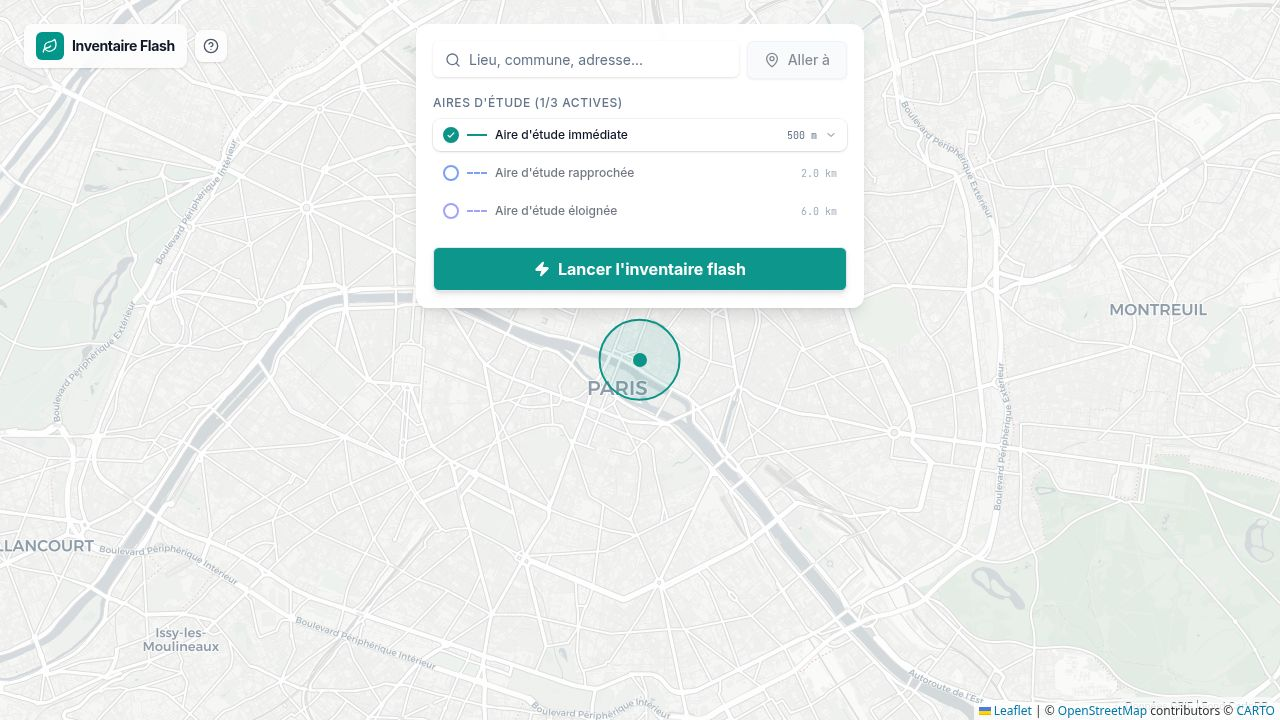
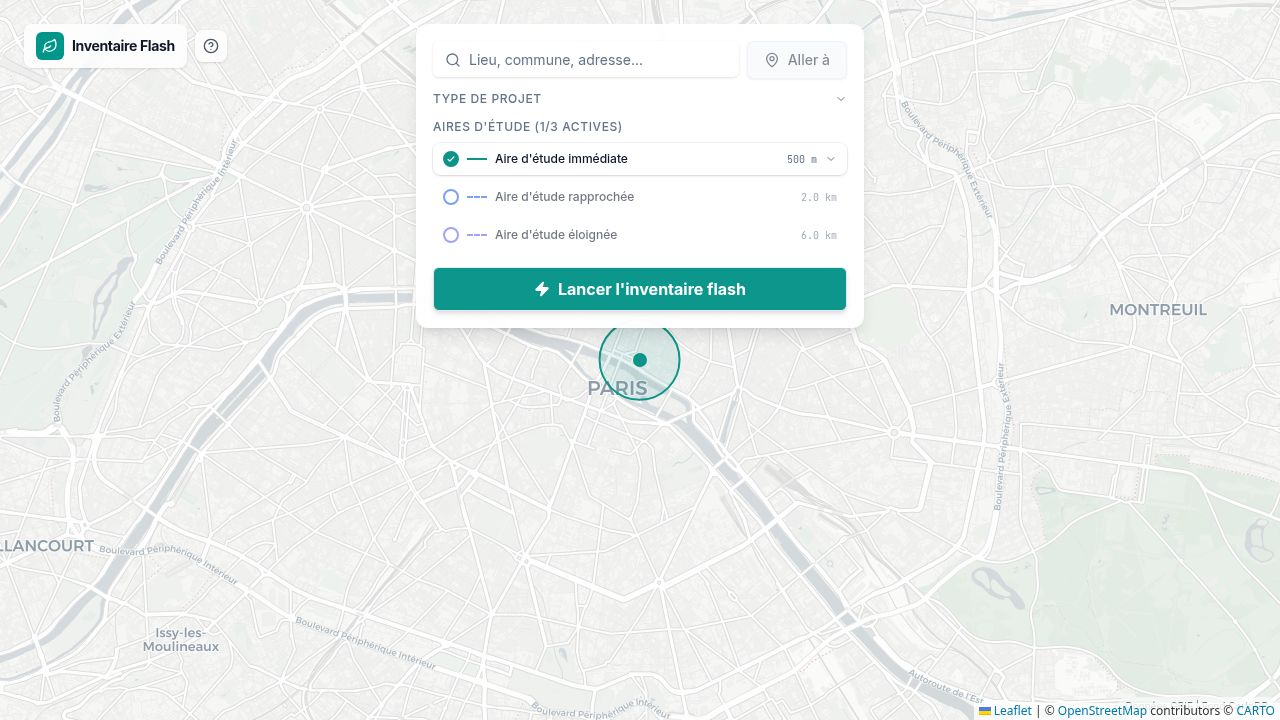
Add project type presets to configure study areas automatically
Introduce project type presets to the application, allowing users to select predefined configurations for study area radii and enable/disable states, with manual customization available.

Replit-Commit-Author: Agent
Replit-Commit-Session-Id: 968372e9-546c-41ac-8a1b-b525197c030f
Replit-Commit-Checkpoint-Type: full_checkpoint
Replit-Commit-Event-Id: 0a8aeb7a-4244-4e0d-8689-2376d5fc3060
Replit-Commit-Screenshot-Url: https://storage.googleapis.com/screenshot-production-us-central1/762f6950-69ba-4f59-9f99-7a8aaf2ae693/968372e9-546c-41ac-8a1b-b525197c030f/E6MBzyC
Replit-Helium-Checkpoint-Created: true

Changed region(s): [[0.3125, 0.1222, 0.6875, 0.4583], [0.5938, 0.1833, 0.6562, 0.2444]]

diff --git a/client/src/components/SearchPanel.tsx b/client/src/components/SearchPanel.tsx
@@ -4,7 +4,7 @@ import { Button } from "@/components/ui/button";
 import { Input } from "@/components/ui/input";
 import { Search, Loader2, Zap, MapPin, ChevronDown, ChevronUp } from "lucide-react";
 import { motion, AnimatePresence } from "framer-motion";
-import { BufferCircle, STUDY_AREAS } from "@/lib/gbif";
+import { BufferCircle, STUDY_AREAS, PROJECT_PRESETS, ProjectPreset } from "@/lib/gbif";
 
 interface SearchPanelProps {
   onGoToPlace: (query: string) => void;
@@ -14,14 +14,18 @@ interface SearchPanelProps {
   circles: BufferCircle[];
   onToggleCircle: (id: string) => void;
   onRadiusChange: (id: string, radius: number) => void;
+  activePresetId: string;
+  onApplyPreset: (preset: ProjectPreset) => void;
 }
 
 export function SearchPanel({ 
   onGoToPlace, onLaunchAnalysis, isSearching, isAnalyzing, 
-  circles, onToggleCircle, onRadiusChange
+  circles, onToggleCircle, onRadiusChange,
+  activePresetId, onApplyPreset
 }: SearchPanelProps) {
   const [query, setQuery] = useState("");
   const [expandedCircle, setExpandedCircle] = useState<string | null>(null);
+  const [showPresets, setShowPresets] = useState(false);
 
   const handleGoTo = () => {
     if (query.trim()) {
@@ -30,6 +34,7 @@ export function SearchPanel({
   };
 
   const enabledCount = circles.filter(c => c.enabled).length;
+  const activePreset = PROJECT_PRESETS.find(p => p.id === activePresetId);
 
   return (
     <motion.div 
@@ -37,7 +42,7 @@ export function SearchPanel({
       animate={{ y: 0, opacity: 1 }}
       className="absolute top-6 left-1/2 -translate-x-1/2 z-[1000] w-[90%] max-w-md"
     >
-      <div className="glass-panel p-4 rounded-xl flex flex-col gap-4">
+      <div className="glass-panel p-4 rounded-xl flex flex-col gap-3">
         <div className="flex gap-2">
           <div className="relative flex-1">
             <Search className="absolute left-3 top-1/2 -translate-y-1/2 h-4 w-4 text-muted-foreground" />
@@ -60,6 +65,72 @@ export function SearchPanel({
             {isSearching ? <Loader2 className="h-4 w-4 animate-spin" /> : <MapPin className="h-4 w-4" />}
             Aller à
           </Button>
+        </div>
+
+        <div className="space-y-2">
+          <button
+            type="button"
+            onClick={() => setShowPresets(!showPresets)}
+            className="w-full flex items-center justify-between text-xs font-medium text-muted-foreground uppercase tracking-wider hover:text-foreground transition-colors"
+            data-testid="button-toggle-presets"
+          >
+            <div className="flex items-center gap-1.5">
+              <span>Type de projet</span>
+              {activePreset && (
+                <span className={`normal-case tracking-normal px-1.5 py-0.5 rounded text-[10px] font-semibold ${
+                  activePreset.id === "custom" 
+                    ? 'bg-gray-100 text-gray-500' 
+                    : 'bg-teal-100 text-teal-700'
+                }`}>
+                  {activePreset.icon} {activePreset.label}
+                </span>
+              )}
+            </div>
+            {showPresets 
+              ? <ChevronUp className="h-3 w-3" /> 
+              : <ChevronDown className="h-3 w-3" />
+            }
+          </button>
+
+          <AnimatePresence>
+            {showPresets && (
+              <motion.div
+                initial={{ opacity: 0, height: 0 }}
+                animate={{ opacity: 1, height: "auto" }}
+                exit={{ opacity: 0, height: 0 }}
+                className="overflow-hidden"
+              >
+                <div className="grid grid-cols-2 gap-1.5 pb-2">
+                  {PROJECT_PRESETS.filter(p => p.id !== "custom").map((preset) => (
+                    <button
+                      key={preset.id}
+                      type="button"
+                      onClick={() => {
+                        onApplyPreset(preset);
+                        setShowPresets(false);
+                      }}
+                      className={`text-left px-2.5 py-2 rounded-lg transition-all text-xs ${
+                        activePresetId === preset.id
+                          ? 'bg-teal-50 ring-1 ring-teal-300 shadow-sm'
+                          : 'bg-white/50 hover:bg-white/80 ring-1 ring-black/5'
+                      }`}
+                      data-testid={`preset-${preset.id}`}
+                    >
+                      <div className="flex items-center gap-1.5">
+                        <span className="text-sm">{preset.icon}</span>
+                        <span className={`font-semibold ${activePresetId === preset.id ? 'text-teal-800' : 'text-gray-800'}`}>
+                          {preset.label}
+                        </span>
+                      </div>
+                      <p className={`text-[10px] mt-0.5 leading-tight ${activePresetId === preset.id ? 'text-teal-600' : 'text-gray-400'}`}>
+                        {preset.description}
+                      </p>
+                    </button>
+                  ))}
+                </div>
+              </motion.div>
+            )}
+          </AnimatePresence>
         </div>
 
         <div className="space-y-2">

diff --git a/client/src/lib/gbif.ts b/client/src/lib/gbif.ts
@@ -41,6 +41,109 @@ export const STUDY_AREAS = [
   { id: "eloignee", label: "Aire d'étude éloignée", radius: 6000, color: "#6366f1", dashArray: "5, 10" },
 ] as const;
 
+export interface ProjectPreset {
+  id: string;
+  label: string;
+  icon: string;
+  description: string;
+  zones: {
+    immediate: { radius: number; enabled: boolean };
+    rapprochee: { radius: number; enabled: boolean };
+    eloignee: { radius: number; enabled: boolean };
+  };
+}
+
+export const PROJECT_PRESETS: ProjectPreset[] = [
+  {
+    id: "custom",
+    label: "Personnalisé",
+    icon: "⚙",
+    description: "Configuration manuelle des aires d'étude",
+    zones: {
+      immediate: { radius: 500, enabled: true },
+      rapprochee: { radius: 2000, enabled: false },
+      eloignee: { radius: 6000, enabled: false },
+    },
+  },
+  {
+    id: "eolien",
+    label: "Éolien",
+    icon: "💨",
+    description: "Parc éolien terrestre",
+    zones: {
+      immediate: { radius: 500, enabled: true },
+      rapprochee: { radius: 5000, enabled: true },
+      eloignee: { radius: 15000, enabled: true },
+    },
+  },
+  {
+    id: "pv_petit",
+    label: "PV sol petit",
+    icon: "☀",
+    description: "Photovoltaïque au sol < 3 ha",
+    zones: {
+      immediate: { radius: 200, enabled: true },
+      rapprochee: { radius: 1000, enabled: true },
+      eloignee: { radius: 3000, enabled: true },
+    },
+  },
+  {
+    id: "pv_moyen",
+    label: "PV sol moyen",
+    icon: "☀",
+    description: "Photovoltaïque au sol 3-50 ha",
+    zones: {
+      immediate: { radius: 500, enabled: true },
+      rapprochee: { radius: 2000, enabled: true },
+      eloignee: { radius: 6000, enabled: true },
+    },
+  },
+  {
+    id: "pv_grand",
+    label: "PV sol grand",
+    icon: "☀",
+    description: "Photovoltaïque au sol > 50 ha",
+    zones: {
+      immediate: { radius: 1000, enabled: true },
+      rapprochee: { radius: 3000, enabled: true },
+      eloignee: { radius: 10000, enabled: true },
+    },
+  },
+  {
+    id: "urbanisation",
+    label: "Urbanisation",
+    icon: "🏗",
+    description: "Aménagement urbain, lotissement, ZAC",
+    zones: {
+      immediate: { radius: 300, enabled: true },
+      rapprochee: { radius: 1000, enabled: true },
+      eloignee: { radius: 3000, enabled: true },
+    },
+  },
+  {
+    id: "route",
+    label: "Infrastructure linéaire",
+    icon: "🛣",
+    description: "Route, voie ferrée, canalisation",
+    zones: {
+      immediate: { radius: 500, enabled: true },
+      rapprochee: { radius: 2000, enabled: true },
+      eloignee: { radius: 5000, enabled: true },
+    },
+  },
+  {
+    id: "carriere",
+    label: "Carrière / ICPE",
+    icon: "⛏",
+    description: "Carrière, installation classée",
+    zones: {
+      immediate: { radius: 500, enabled: true },
+      rapprochee: { radius: 2000, enabled: true },
+      eloignee: { radius: 6000, enabled: true },
+    },
+  },
+];
+
 export interface InventoryResult {
   occurrences: Occurrence[];
   stats: {

diff --git a/client/src/pages/Home.tsx b/client/src/pages/Home.tsx
@@ -3,7 +3,7 @@ import { Map } from "@/components/Map";
 import { SearchPanel } from "@/components/SearchPanel";
 import { ResultsPanel } from "@/components/ResultsPanel";
 import { AboutDialog } from "@/components/AboutDialog";
-import { searchGBIFMultiCircle, InventoryResult, BufferCircle, STUDY_AREAS } from "@/lib/gbif";
+import { searchGBIFMultiCircle, InventoryResult, BufferCircle, STUDY_AREAS, ProjectPreset } from "@/lib/gbif";
 import { searchPlace } from "@/lib/geocoding";
 import { useToast } from "@/hooks/use-toast";
 import { Leaf, HelpCircle } from "lucide-react";
@@ -29,6 +29,7 @@ export default function Home() {
   const [isPanelOpen, setIsPanelOpen] = useState(false);
   const [selectedSpecies, setSelectedSpecies] = useState<string | null>(null);
   const [showAbout, setShowAbout] = useState(false);
+  const [activePresetId, setActivePresetId] = useState("custom");
   const { toast } = useToast();
 
   const handleGoToPlace = async (query: string) => {
@@ -100,16 +101,29 @@ export default function Home() {
     if (isPanelOpen) setIsPanelOpen(false);
   };
 
-  const handleToggleCircle = useCallback((id: string) => {
-    setCircles(prev => prev.map(c => 
-      c.id === id ? { ...c, enabled: !c.enabled } : c
-    ));
-  }, []);
-
   const handleRadiusChange = useCallback((id: string, newRadius: number) => {
     setCircles(prev => prev.map(c => 
       c.id === id ? { ...c, radius: newRadius } : c
     ));
+    setActivePresetId("custom");
+  }, []);
+
+  const handleToggleCircleWithPreset = useCallback((id: string) => {
+    setCircles(prev => prev.map(c => 
+      c.id === id ? { ...c, enabled: !c.enabled } : c
+    ));
+    setActivePresetId("custom");
+  }, []);
+
+  const handleApplyPreset = useCallback((preset: ProjectPreset) => {
+    setActivePresetId(preset.id);
+    setCircles(prev => prev.map(c => {
+      const zone = preset.zones[c.id as keyof typeof preset.zones];
+      if (zone) {
+        return { ...c, radius: zone.radius, enabled: zone.enabled };
+      }
+      return c;
+    }));
   }, []);
 
   return (
@@ -129,8 +143,10 @@ export default function Home() {
         isSearching={isSearching}
         isAnalyzing={isAnalyzing}
         circles={circles}
-        onToggleCircle={handleToggleCircle}
+        onToggleCircle={handleToggleCircleWithPreset}
         onRadiusChange={handleRadiusChange}
+        activePresetId={activePresetId}
+        onApplyPreset={handleApplyPreset}
       />
 
       <ResultsPanel 

diff --git a/replit.md b/replit.md
@@ -57,7 +57,8 @@ Preferred communication style: Simple, everyday language.
 - **Alert-based species classification**: Species categorized as high/medium/low priority based on conservation status
 - **Confidence scoring**: GBIF data quality assessed using geographic, taxonomic, and temporal factors (6 criteria: geo, tax, time, trace, issues, dedup)
 - **Concentric EIE buffer zones**: Three predefined concentric study areas matching environmental impact study standards: Aire immédiate (500m, teal, solid), Aire rapprochée (2km, blue, dashed), Aire éloignée (6km, indigo, dashed). All share the same center; users can enable/disable each zone and customize radii. Analysis merges species across enabled zones with averaged confidence scores.
-
+- **Project type presets**: Standard configurations for common EIE project types (Éolien, PV sol petit/moyen/grand, Urbanisation, Infrastructure linéaire, Carrière/ICPE). Each preset auto-configures the three study area radii and enabled states. Manual adjustments switch to "Personnalisé" mode. Presets defined in `PROJECT_PRESETS` array in `gbif.ts`.
+- **About dialog**: Methodology documentation accessible via a "?" button, explaining GBIF API usage, EIE study areas, IUCN classification, and the 6-criteria confidence index.
 - **SINP regional links**: Auto-detects which French region the study area is in using coordinate bounds, and displays relevant SINP (Système d'Information Nature et Paysages) platform links for complementary local data (14 regions covered including overseas territories)
 
 ## External Dependencies
